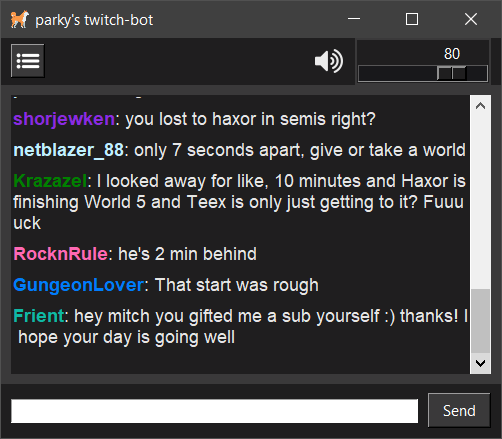
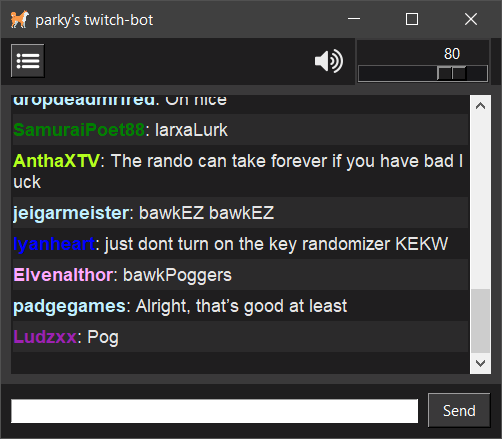
Enhance console visual and limit max lines
Now with nicer looking alternating line colors.

Changed region(s): [[0.0, 0.2073, 0.9562, 0.7995]]

diff --git a/parky_bot/gui/console_widget.py b/parky_bot/gui/console_widget.py
@@ -12,11 +12,11 @@ QUEUE = get_console_queue()
 
 class Console(tkinter.Frame):
 
-    def __init__(self, parent, settings, **kwargs):
+    def __init__(self, parent, settings, max_lines=200, **kwargs):
         super().__init__(parent, **kwargs)
 
         self.settings = settings
-
+        self.max_lines = max_lines
         self.console = ScrolledText(self,
                                     bg=Theme.CONSOLE_BG,
                                     highlightbackground=Theme.BG,
@@ -40,6 +40,17 @@ class Console(tkinter.Frame):
                                 font=('Helvetica', 11),
                                 spacing1=5,
                                 spacing3=5)
+
+        self.console.tag_config('TEXT_ALT',
+                                foreground=Theme.CONSOLE_TEXT,
+                                background=Theme.CONSOLE_BG_ALT,
+                                selectbackground='SystemHighlight',
+                                font=('Helvetica', 11),
+                                spacing1=5,
+                                spacing3=5)
+        # Why does setting 'background' causes highlighted text color to be transparent?
+        # https://web.archive.org/web/20201112014139id_/https://effbot.org/tkinterbook/tkinter-widget-styling.htm
+        self.alt_bg = False
 
         # Logging colors
         self.console.tag_config('INFO', foreground=Theme.LOG_INFO)
@@ -67,14 +78,18 @@ class Console(tkinter.Frame):
         self.console.configure(state='normal') # Allow writing
         try: # Tcl can't render some characters
             if isinstance(text, Message):
+                self.alt_bg = not self.alt_bg
                 user_color = 'lightblue1' if not text.tags.get('color') else text.tags.get('color')
-                self.console.tag_config(text.sender,
+                username_tag = f'{text.sender}{"alt_bg" if self.alt_bg else ""}'
+                self.console.tag_config(username_tag,
                                         font=self.font,
                                         foreground=user_color,
+                                        background=Theme.CONSOLE_BG_ALT if self.alt_bg else Theme.CONSOLE_BG,
+                                        selectbackground='SystemHighlight',
                                         spacing1=5,
                                         spacing3=5)
-                self.console.insert(tkinter.END, text.sender, text.sender)
-                self.console.insert(tkinter.END, f': {text.message}\n', 'TEXT')
+                self.console.insert(tkinter.END, text.sender, username_tag)
+                self.console.insert(tkinter.END, f': {text.message}\n', 'TEXT_ALT' if self.alt_bg else 'TEXT')
             else:
                 message = LOGGER.handlers[1].format(text) # This is not a good way to access this
                 self.console.insert(tkinter.END, f'{message}\n', text.levelname)
@@ -87,6 +102,11 @@ class Console(tkinter.Frame):
 
             else:
                 self.console.insert(tkinter.END, f'{e}\n', 'ERROR')
+
+        #https://stackoverflow.com/questions/4609382/getting-the-total-number-of-lines-in-a-tkinter-text-widget
+        self.line_count = int(self.console.index('end-2c').split('.')[0])
+        if self.line_count > self.max_lines:
+            self.console.delete(1.0, 2.0)
 
         self.console.configure(state='disabled') # Disallow writing
         self.console.yview(tkinter.END)

diff --git a/parky_bot/gui/themes/default.py b/parky_bot/gui/themes/default.py
@@ -18,6 +18,7 @@ class Theme:
 
     # Console
     CONSOLE_BG = '#1F1E1F'
+    CONSOLE_BG_ALT = '#2B2A2B'
     CONSOLE_TEXT = '#E5E5E5'
 
     # Log colors
